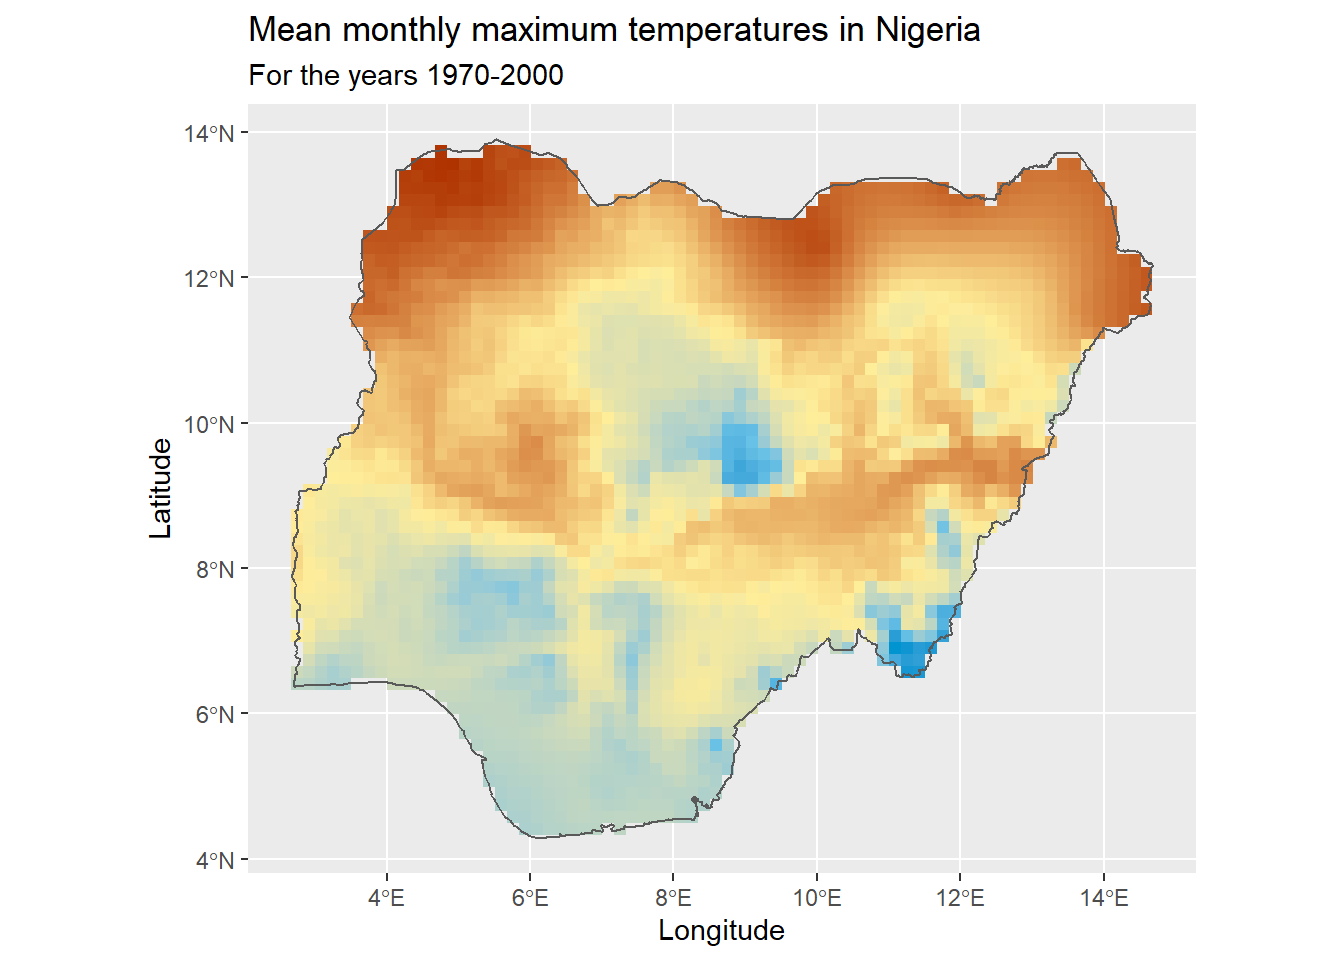
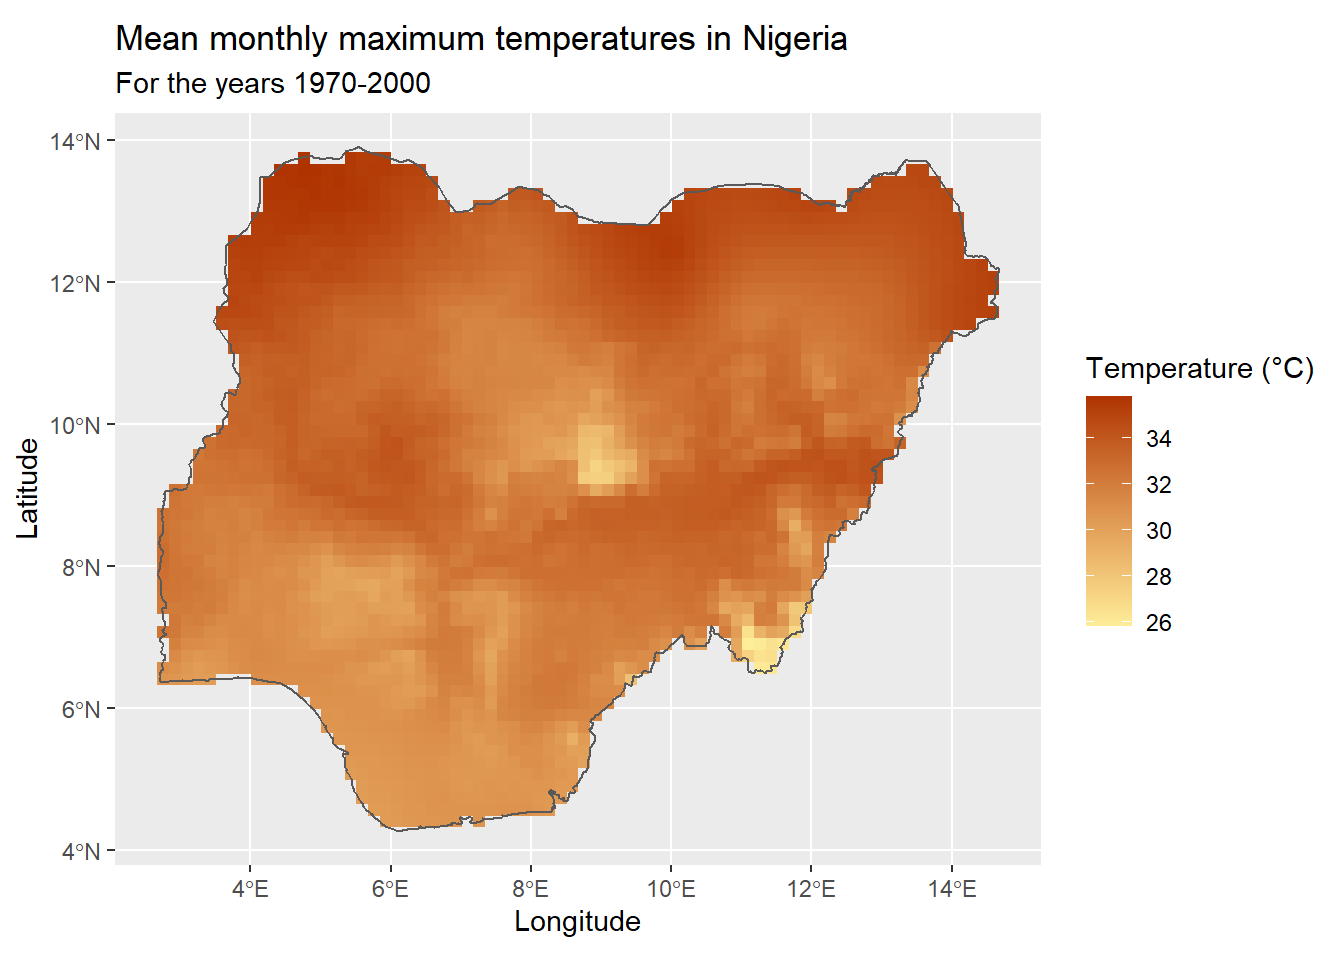
updated temperature tutorial - color scale

diff --git a/docs/temperature.html b/docs/temperature.html
@@ -558,10 +558,7 @@ tmax_mean &lt;- mean(tmax_data)
 nigeria_sf &lt;- geoboundaries(&quot;Nigeria&quot;)
 
 # Extracting temperature data of Nigeria
-tmax_mean_ngeria &lt;- raster::crop(
-  raster::mask(tmax_mean, as_Spatial(nigeria_sf)),
-  as_Spatial(nigeria_sf)
-)
+tmax_mean_ngeria &lt;- raster::mask(tmax_mean, as_Spatial(nigeria_sf))
 
 # Converting the raster object into a dataframe
 tmax_mean_nigeria_df &lt;- as.data.frame(tmax_mean_ngeria, xy = TRUE, na.rm = TRUE)
@@ -574,9 +571,9 @@ tmax_mean_nigeria_df %&gt;%
        subtitle = &quot;For the years 1970-2000&quot;) +
   xlab(&quot;Longitude&quot;) +
   ylab(&quot;Latitude&quot;) +
-  scale_fill_gradientn(name = &quot;Temperature (°C)&quot;,
-                       colours=c(&quot;#0094D1&quot;,&quot;#68C1E6&quot;, &quot;#FEED99&quot;,&quot;#AF3301&quot;),
-                       breaks = c(-20, 0, 20, 40))</code></pre>
+  scale_fill_gradient(name = &quot;Temperature (°C)&quot;,
+                      low =  &quot;#FEED99&quot;,
+                      high = &quot;#AF3301&quot;)</code></pre>
 <p><img src="temperature_files/figure-html/unnamed-chunk-1-1.png" width="672" /></p>
 </div>
 <div id="visualising-bioclimatic-variables" class="section level3">
